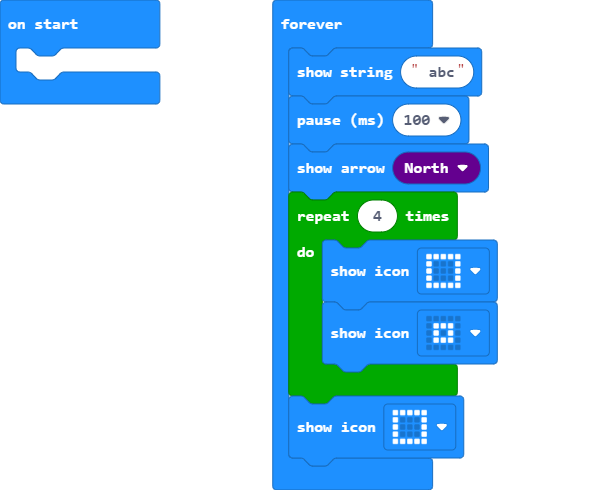
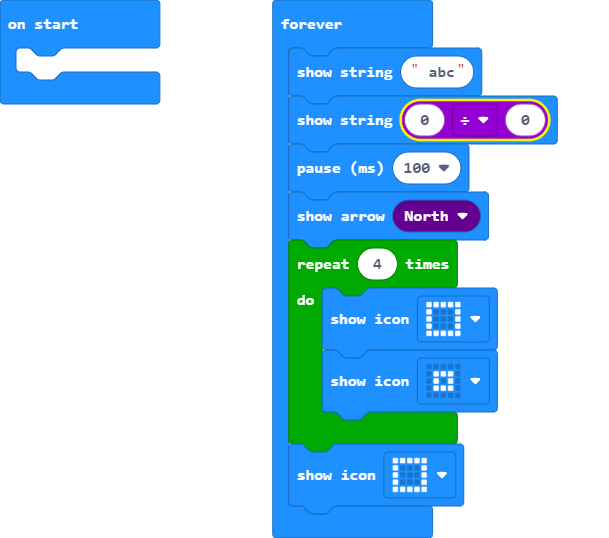
Update main.blocks, main.ts

Changed region(s): [[0.4193, 0.0, 0.9285, 1.0], [0.0, 0.0, 0.2696, 0.2143], [0.5092, 0.949, 0.5391, 0.9796]]

diff --git a/main.ts b/main.ts
@@ -1,5 +1,6 @@
 basic.forever(function () {
     basic.showString(" abc")
+    basic.showString("" + (0 / 0))
     basic.pause(100)
     basic.showArrow(ArrowNames.North)
     for (let index = 0; index < 4; index++) {
